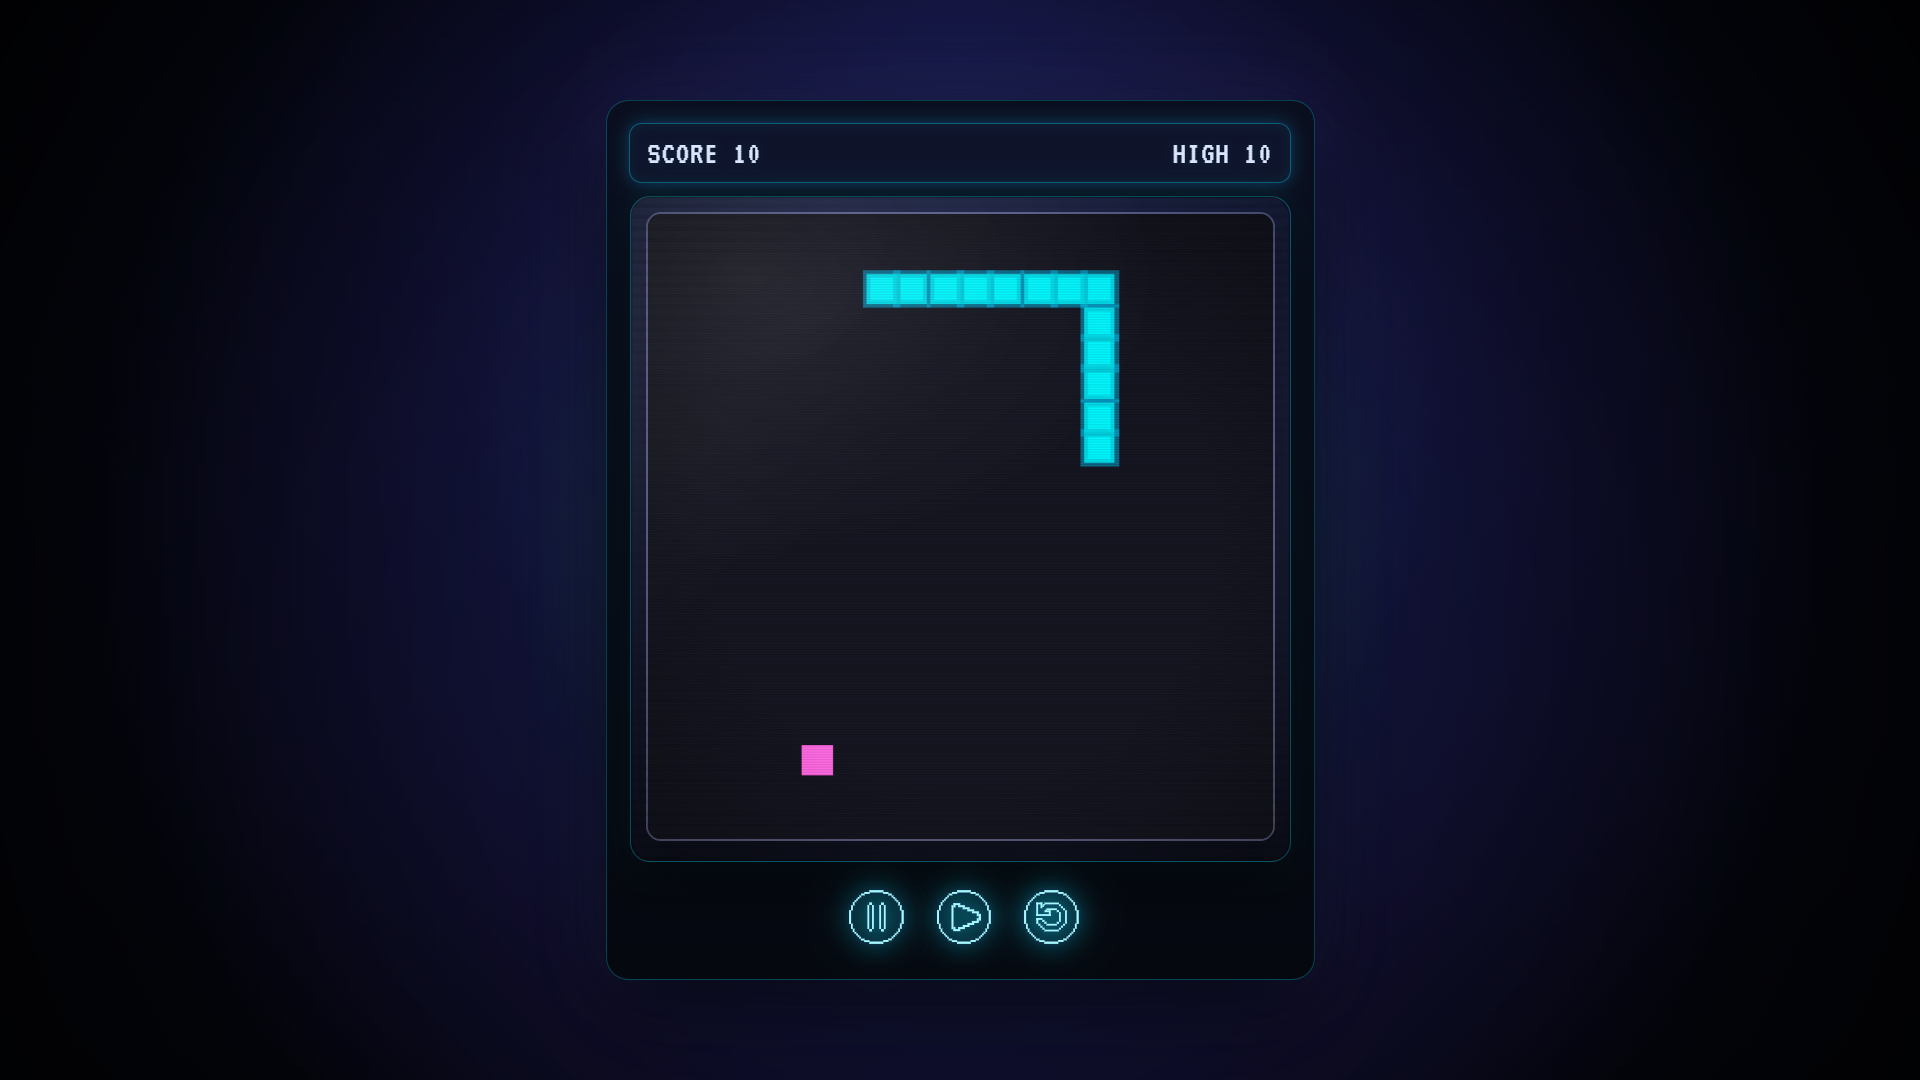
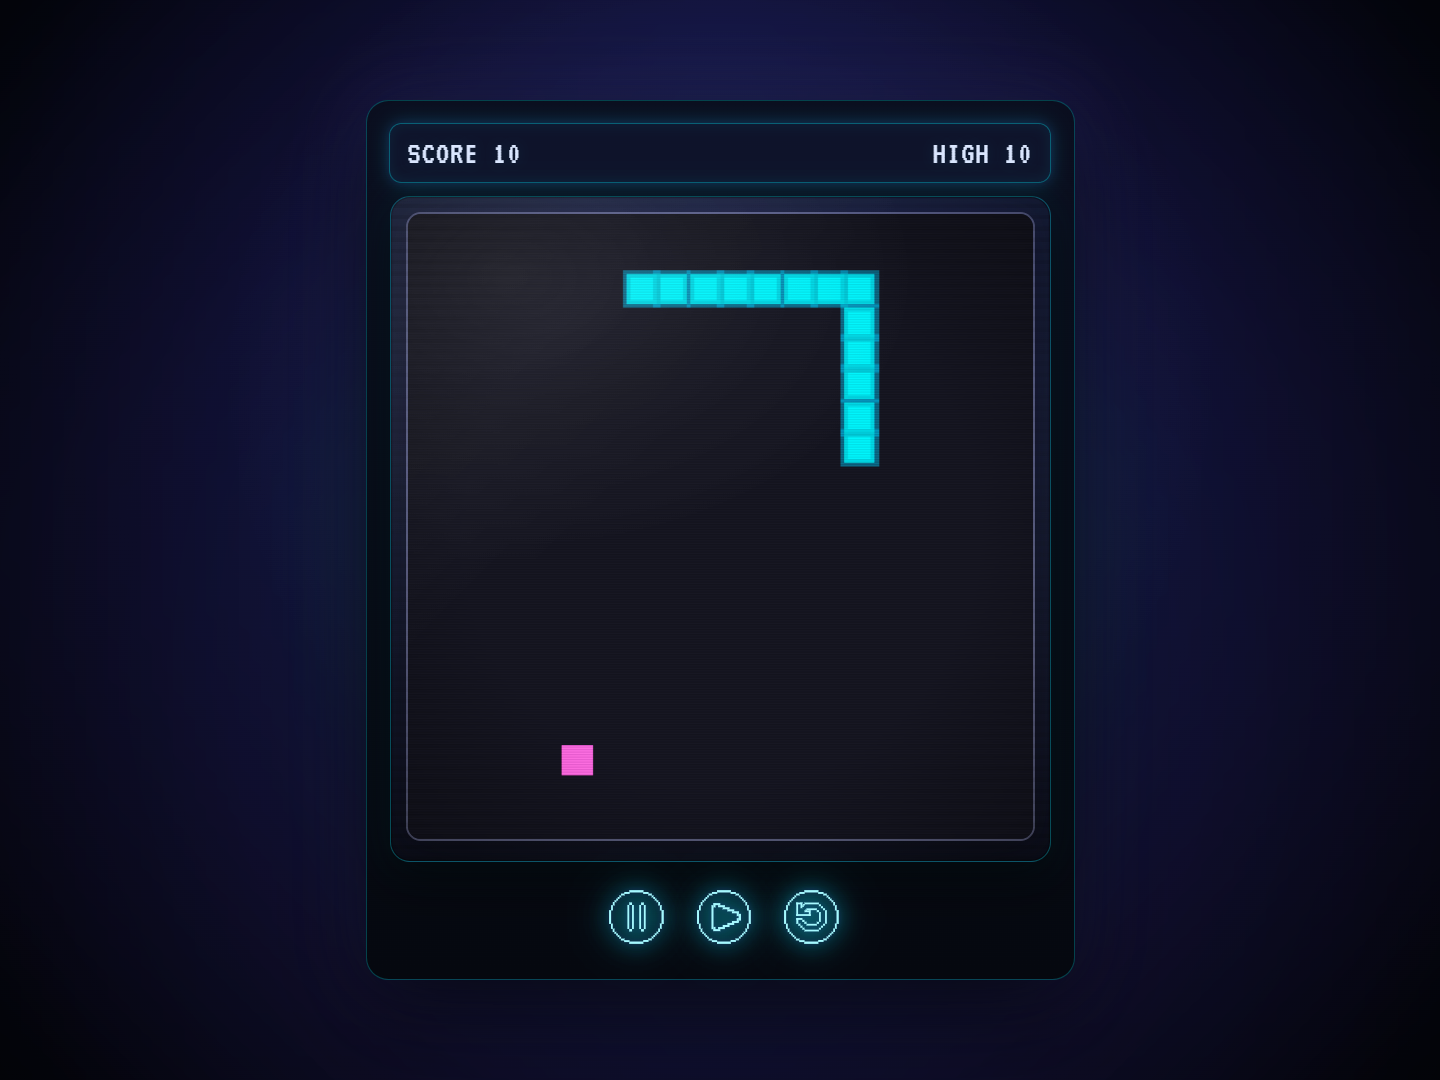
Update  README documentation

diff --git a/README.md b/README.md
@@ -1,7 +1,7 @@
 # 🐍 Snake Game
 
 A browser-based Snake game reimagined with a retro-futuristic / Tron-inspired arcade UI.  
-This project started as an exploration of visual design in games: how color, lighting, and UI hierarchy can transform a simple concept into something that feels polished and intentional. The gameplay stays true to the original—no gimmicks, just you vs. the snake, while the presentation aims for that "one more game" arcade appeal.
+This project started as an exploration of visual design in games: how color, lighting, and UI hierarchy can transform a simple concept into something that feels polished and intentional. The gameplay stays true to the original, no gimmicks, just you vs. the snake, while the presentation aims for that "one more game" arcade appeal.
 
 
 ## 🎮 [Play the Game Live!] ----> https://dinuga-tw.github.io/snake-game/
@@ -54,4 +54,10 @@ This project started as an exploration of visual design in games: how color, lig
 - Implement difficulty levels
 - Add mobile touch controls
 - Leaderboard system
+
+
+## 👨💻 Author
+
+**Dinuga-TW**
+
 ---
